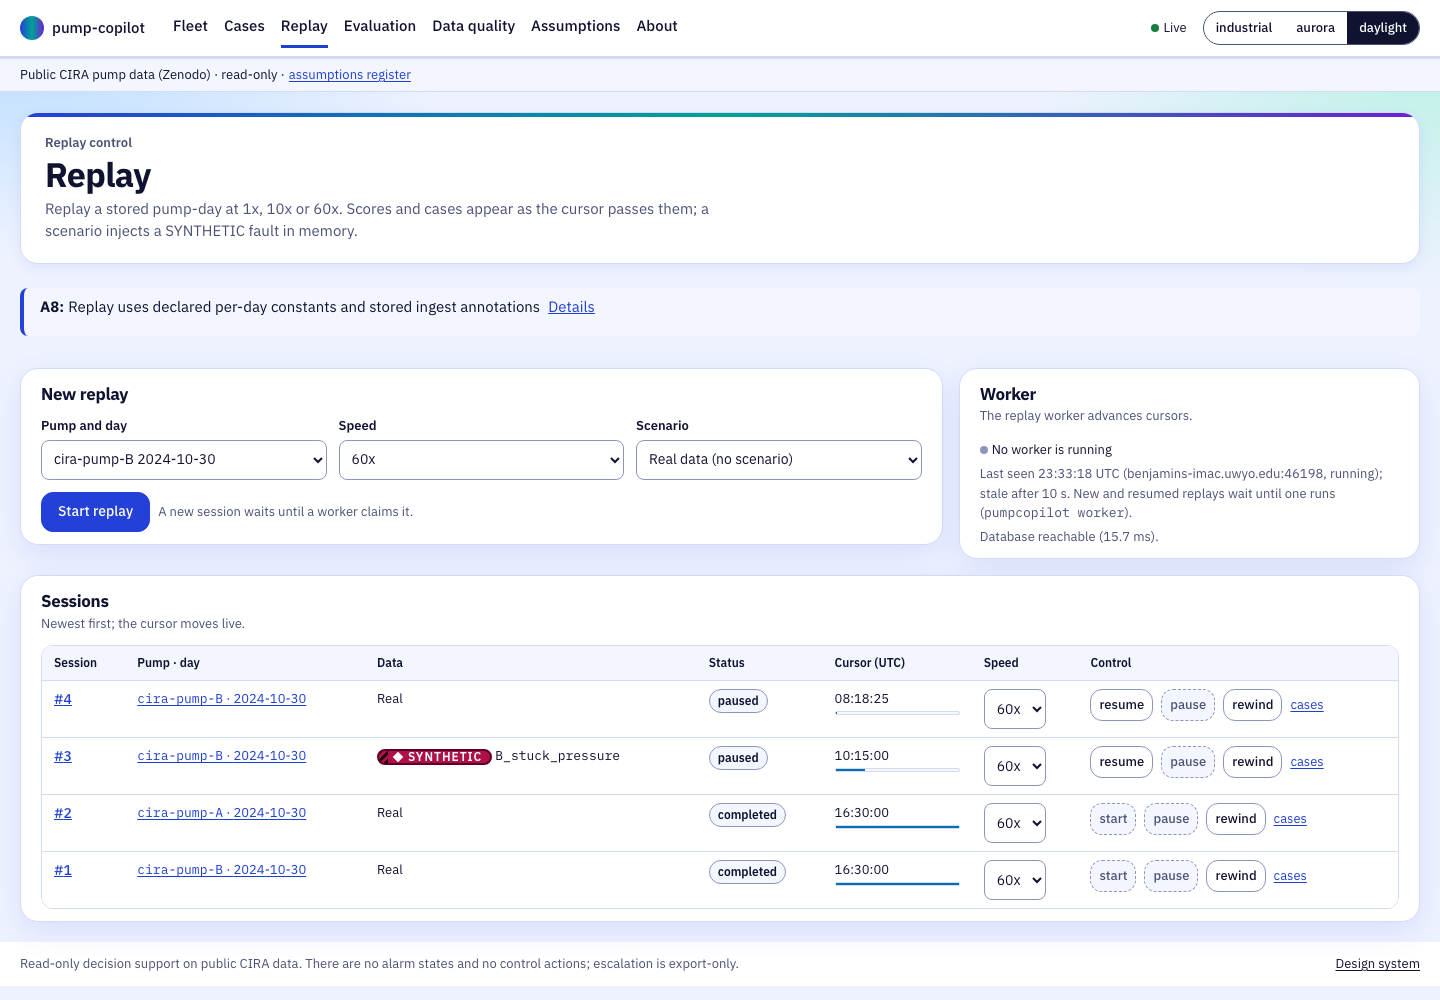
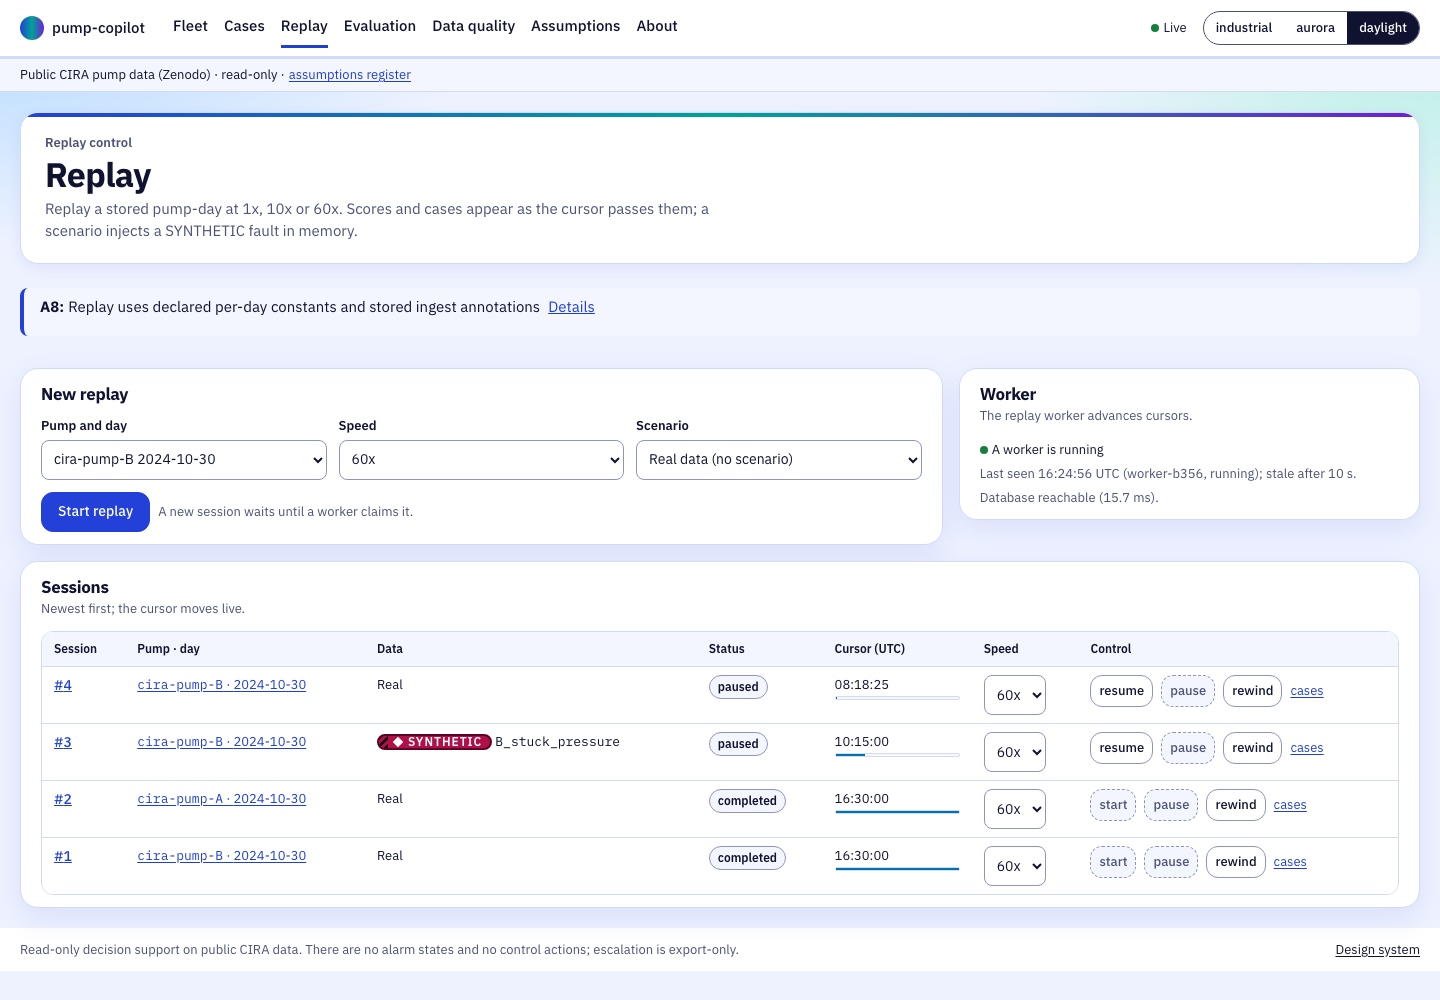
Step 7a: public readiness (licence, data credits, no host names)
- LICENSE (MIT, Benjamin Nweke) and NOTICE: the code is MIT; the CIRA and
  ZeMA datasets are credited under CC BY 4.0 with full citations, and the
  raw data is not redistributed. README: a licence and data credits
  section.
- Worker ids are a short random id (worker-3f9a) instead of host:pid;
  migration 0011 drops the heartbeat host column and the rows written
  under the old ids, so /health never shows a machine name. The stage 3
  replay screenshots are regenerated.
- The database password comes from POSTGRES_PASSWORD (docker compose,
  the default URL and the e2e backend), with pump_dev_only as the
  development default.
- docs/SCOPE.md: a summary of the original scope (goals, claim
  boundaries, datasets, phases), reconstructed from what the repository
  records; the scope references link to it.
- docs/ASSUMPTIONS.md: the dataset authors' emails replaced by the
  dataset citation.
- Checked before this commit: gitleaks over all 37 commits and tags
  found nothing; no raw dataset file is in any commit.

diff --git a/web/src/api/schema.d.ts b/web/src/api/schema.d.ts
@@ -2526,8 +2526,6 @@ export interface components {
             age_s: number;
             /** Alive */
             alive: boolean;
-            /** Host */
-            host: string;
             /**
              * Last Seen
              * Format: date-time
@@ -2549,7 +2547,10 @@ export interface components {
              * @enum {string}
              */
             status: "running" | "stopped";
-            /** Worker Id */
+            /**
+             * Worker Id
+             * @description a short random id (worker-3f9a), no host name
+             */
             worker_id: string;
         };
         /** ZemaBenchmark */

diff --git a/src/pumpcopilot/replay.py b/src/pumpcopilot/replay.py
@@ -31,7 +31,7 @@ import hashlib
 import json
 import math
 import os
-import socket
+import secrets
 import time
 from dataclasses import dataclass, field, replace
 from pathlib import Path
@@ -597,6 +597,11 @@ SCORE_COLS = ("session_id", "synthetic", "asset_id", "source_day", "signal_name"
               "cursor_at", "stored_at", "median", "band_low", "band_high")
 
 
+def new_worker_id() -> str:
+    """A short random worker id (worker-3f9a): no host name, so /health never shows it."""
+    return f"worker-{secrets.token_hex(2)}"
+
+
 class Worker:
     """`pumpcopilot worker`: claims sessions with FOR UPDATE SKIP LOCKED and advances them."""
 
@@ -604,7 +609,7 @@ class Worker:
 
     def __init__(self, conn, worker_id: str | None = None, clock=None):
         self.conn = conn
-        self.id = worker_id or f"{socket.gethostname()}:{os.getpid()}"
+        self.id = worker_id or new_worker_id()
         self.clock = clock or _now  # pacing clock (simulated in tests)
         self._cache: dict[int, _Cache] = {}
         self._started = _now()
@@ -616,12 +621,12 @@ class Worker:
         """Record that this worker is alive (real wall time, whatever the pacing clock)."""
         self._beat_at = time.monotonic()
         self.conn.execute(
-            "INSERT INTO worker_heartbeats (worker_id, host, pid, started_at, last_seen, status,"
-            " sessions_stepped, last_session_id) VALUES (%s, %s, %s, %s, clock_timestamp(),"
+            "INSERT INTO worker_heartbeats (worker_id, pid, started_at, last_seen, status,"
+            " sessions_stepped, last_session_id) VALUES (%s, %s, %s, clock_timestamp(),"
             " %s, %s, %s) ON CONFLICT (worker_id) DO UPDATE SET last_seen = clock_timestamp(),"
             " status = EXCLUDED.status, sessions_stepped = EXCLUDED.sessions_stepped,"
             " last_session_id = EXCLUDED.last_session_id",
-            [self.id, socket.gethostname(), os.getpid(), self._started, status, self._stepped,
+            [self.id, os.getpid(), self._started, status, self._stepped,
              self._last_session])
 
     def tick(self) -> dict | None:

diff --git a/src/pumpcopilot/db.py b/src/pumpcopilot/db.py
@@ -30,7 +30,7 @@ from .provenance import file_digest
 
 ROOT = Path(__file__).resolve().parents[2]
 MIGRATIONS = ROOT / "migrations"
-DEFAULT_DATABASE_URL = "postgresql://pump:pump_dev_only@localhost:5432/pumpcopilot"
+DEV_PASSWORD = "pump_dev_only"  # the local development default; set POSTGRES_PASSWORD instead
 MIGRATION_NAME = re.compile(r"(\d{4})_[a-z0-9_]+\.sql")
 DAY_MARGIN = dt.timedelta(hours=3)  # the audit's span margin around the filename day
 _LOCK = 72_616_001  # advisory lock id: one migrator at a time
@@ -40,8 +40,18 @@ class MigrationError(RuntimeError):
     pass
 
 
+def default_database_url() -> str:
+    """The local database, with the password from POSTGRES_PASSWORD (the same variable
+    docker-compose.yml gives the database), or the development default."""
+    password = "".join(  # percent-encoded for the URL (no urllib: see the network guardrail)
+        c if c.isascii() and (c.isalnum() or c in "-._~") else
+        "".join(f"%{b:02X}" for b in c.encode())
+        for c in os.environ.get("POSTGRES_PASSWORD") or DEV_PASSWORD)
+    return f"postgresql://pump:{password}@localhost:5432/pumpcopilot"
+
+
 def database_url() -> str:
-    return os.environ.get("DATABASE_URL", DEFAULT_DATABASE_URL)
+    return os.environ.get("DATABASE_URL") or default_database_url()
 
 
 def connect(url: str | None = None) -> psycopg.Connection:

diff --git a/tests/test_db.py b/tests/test_db.py
@@ -33,9 +33,19 @@ def test_every_query_function_is_scoped_to_one_asset_day():
 
 def test_database_url_comes_from_the_environment(monkeypatch):
     monkeypatch.delenv("DATABASE_URL", raising=False)
-    assert db.database_url() == db.DEFAULT_DATABASE_URL
+    monkeypatch.delenv("POSTGRES_PASSWORD", raising=False)
+    assert db.database_url() == "postgresql://pump:pump_dev_only@localhost:5432/pumpcopilot"
+    monkeypatch.setenv("POSTGRES_PASSWORD", "p@ss/word")  # quoted for the URL
+    assert db.database_url() == "postgresql://pump:p%40ss%2Fword@localhost:5432/pumpcopilot"
     monkeypatch.setenv("DATABASE_URL", "postgresql://x@example/y")
     assert db.database_url() == "postgresql://x@example/y"
+
+
+def test_no_database_password_is_written_out_except_the_development_default():
+    """The compose file and the e2e backend read POSTGRES_PASSWORD, with the same default."""
+    assert "${POSTGRES_PASSWORD:-pump_dev_only}" in (ROOT / "docker-compose.yml").read_text()
+    assert "${POSTGRES_PASSWORD:-pump_dev_only}" in (ROOT / "web/e2e/backend.sh").read_text()
+    assert db.DEV_PASSWORD == "pump_dev_only"
 
 
 # --- database ----------------------------------------------------------------------------

diff --git a/src/pumpcopilot/schema.py b/src/pumpcopilot/schema.py
@@ -7,9 +7,10 @@ Two record shapes, deliberately:
 * ``CycleRecord`` - one row per ZeMA 60 s cycle. The 100 Hz arrays live in Parquet/NPZ keyed
   by ``cycle_id``; exploding ZeMA into narrow rows would be ~96M rows for no benefit.
 
-Scope guardrails are enforced here as validation errors so they cannot be forgotten later:
-a model trained on one dataset cannot score another, abstention requires a reason, and
-anomaly scores can never become a safety alarm (there is no alarm state to choose).
+Scope guardrails (the claim boundaries in docs/SCOPE.md) are enforced here as validation
+errors so they cannot be forgotten later: a model trained on one dataset cannot score another,
+abstention requires a reason, and anomaly scores can never become a safety alarm (there is no
+alarm state to choose).
 """
 
 from __future__ import annotations

diff --git a/tests/test_api.py b/tests/test_api.py
@@ -312,6 +312,22 @@ def test_health_reports_database_and_worker(env, client):
 
 
 @pytest.mark.db
+def test_a_worker_is_known_by_a_short_random_id_and_no_host_name(env, client):
+    import re
+    import socket
+
+    with db.connect(env["url"]) as c:
+        w = replay.Worker(c)
+        w.heartbeat()
+        cols = {r[0] for r in c.execute("SELECT column_name FROM information_schema.columns"
+                                        " WHERE table_name = 'worker_heartbeats'")}
+    assert re.fullmatch(r"worker-[0-9a-f]{4}", w.id)
+    assert "host" not in cols
+    body = client.get("/api/health").text
+    assert w.id in body and socket.gethostname() not in body
+
+
+@pytest.mark.db
 def test_fleet_overview(env, client):
     body = client.get("/api/fleet").json()
     pump = {p["asset_id"]: p for p in body["pumps"]}[ASSET]

diff --git a/src/pumpcopilot/api.py b/src/pumpcopilot/api.py
@@ -354,7 +354,7 @@ def create_app(database_url: str | None = None, reports_dir: Path | None = None,
                                  if p.name not in applied)
                 out["database"] = {"ok": True, "latency_ms": round(
                     (time.perf_counter() - t0) * 1000, 2), "pending_migrations": pending}
-                workers = _rows(c, "SELECT worker_id, host, pid, status, started_at, last_seen,"
+                workers = _rows(c, "SELECT worker_id, pid, status, started_at, last_seen,"
                                    " sessions_stepped, last_session_id, extract(epoch FROM"
                                    " clock_timestamp() - last_seen) AS age_s FROM"
                                    " worker_heartbeats ORDER BY last_seen DESC")

diff --git a/src/pumpcopilot/acquire.py b/src/pumpcopilot/acquire.py
@@ -2,7 +2,7 @@
 
 Nothing here redistributes data. The lock file records URL, size, digest and retrieval time so
 every later report can name the exact bytes it was computed from. If a pinned hash in
-manifest.yaml does not match, acquisition stops (scope Week 1 stop rule).
+manifest.yaml does not match, acquisition stops (scope Week 1 stop rule, docs/SCOPE.md).
 """
 
 from __future__ import annotations

diff --git a/src/pumpcopilot/api_models.py b/src/pumpcopilot/api_models.py
@@ -44,8 +44,7 @@ class DatabaseHealth(Model):
 
 
 class WorkerHeartbeat(Model):
-    worker_id: str
-    host: str
+    worker_id: str = Field(description="a short random id (worker-3f9a), no host name")
     pid: int
     status: Literal["running", "stopped"]
     started_at: dt.datetime

diff --git a/README.md b/README.md
@@ -15,7 +15,7 @@ pumpcopilot audit zema          # -> reports/zema_audit.json
 pumpcopilot audit cira          # -> reports/cira_audit.json
 pumpcopilot rules cira          # -> data/operating_rules.yaml, reports/cira_operating_rules.md
 pumpcopilot state cira          # -> reports/cira_state.json (state time, changes, stale/spike)
-docker compose up -d db         # Timescale; DATABASE_URL overrides the local default
+docker compose up -d db         # Timescale; password from POSTGRES_PASSWORD (default pump_dev_only)
 pumpcopilot db migrate          # applies migrations/NNNN_*.sql in order
 pumpcopilot db load cira        # idempotent: a second run inserts 0 rows
 pumpcopilot db perf             # -> reports/db_perf.json
@@ -43,11 +43,16 @@ make test-web                   # Vitest (stream hook) and the TypeScript check
 make e2e                        # Playwright end to end, on its own database (pumpcopilot_e2e)
 ```
 
-## Step 1 exit criteria (scope Week 1 stop rule)
+The database password comes from `POSTGRES_PASSWORD` (export it in the shell, so the database,
+the worker and the API all see it; it applies when the database volume is first created), or
+`DATABASE_URL` replaces the whole connection string. Without either, the local development
+default `pump_dev_only` is used.
+
+## Step 1 exit criteria ([scope](docs/SCOPE.md) Week 1 stop rule)
 - ZeMA: every channel is 2,205 x (Hz x 60); five label columns within documented values.
 - ZeMA: `split_preflight` shows whether an ordered split with gaps keeps all leakage classes.
 - CIRA: 8 files, only C / 2024-10-30 absent; cadence, gaps, duplicates and placeholders measured.
-- CIRA: record version and license printed by `acquire` match the scope, or are escalated.
+- CIRA: record version and license printed by `acquire` match the [scope](docs/SCOPE.md), or are escalated.
 - `data/cira_columns.yaml` written from the audit headers and the data descriptor.
 
 ## Layout
@@ -62,8 +67,25 @@ src/pumpcopilot/db.py          migration runner, COPY + ON CONFLICT loader, per-
 src/pumpcopilot/scoring.py     features, robust baseline, ScoredEvidence, injection, protocol
 migrations/                    numbered SQL: telemetry/readings hypertables, segments, runs, 1-min view
 docs/adr/                      decisions that adjust the original scope
+docs/SCOPE.md                  summary of the original project scope
 docs/ASSUMPTIONS.md            assumptions register: evidence, impact if wrong, how to revisit
 ```
+
+## Licence and data credits
+The code is licensed under the [MIT License](LICENSE). It does not cover the datasets.
+
+This project uses two public datasets, both under
+[CC BY 4.0](https://creativecommons.org/licenses/by/4.0/). Full citations are in
+[NOTICE](NOTICE) and `data/manifest.yaml`.
+- **CIRA Centrifugal Pump Dataset**: Martone and Zazzaro, Zenodo,
+  [doi:10.5281/zenodo.18479728](https://doi.org/10.5281/zenodo.18479728). The data descriptor is
+  Martone et al. (2025), Data 10(6), 91.
+- **ZeMA condition monitoring of hydraulic systems**: Helwig, Pignanelli and Schütze, UCI Machine
+  Learning Repository, [doi:10.24432/C5CW21](https://doi.org/10.24432/C5CW21).
+
+The raw data is not redistributed. It is not in this repository, and `pumpcopilot acquire`
+downloads it from the original sources. The raw data is unchanged; the features, scores, reports
+and figures here are derived from it.
 
 ## Data
 Raw data is never committed. See `data/manifest.yaml` for sources, citations and license status.

diff --git a/docs/SCOPE.md b/docs/SCOPE.md
@@ -1,0 +1,56 @@
+# Project scope (summary)
+
+A concise summary of the original project scope. The original scope document is not in this
+repository; this summary is reconstructed from what the repository records of it (the README,
+[ADR-0001](adr/0001-scope-adjustments.md), the guardrails in `src/pumpcopilot/schema.py`, the
+manifest and the step history). Where ADR-0001 changed how the scope is delivered, the
+adjustment is noted; the claim boundaries are unchanged.
+
+## Goal
+A read-only decision-support prototype for a refinery-style pump service, built as a portfolio
+demonstration on public data: replay real pump telemetry, score it against a baseline, open
+review cases with their evidence, help an engineer review a case with a checked assistant, and
+evaluate every part honestly, including the results that did not go well.
+
+## Claim boundaries
+- **Read-only.** No control actions and no plant alarms; there is no alarm state in the data
+  contract, and escalation is an export.
+- **Public data only.** No refinery or plant data.
+- **One model, one dataset.** A model fit on one dataset never scores another; ZeMA results do
+  not transfer to the CIRA pumps.
+- **The bench label stays.** ZeMA outputs are "hydraulic test rig pump leakage state" only.
+- **No fault claims on CIRA.** CIRA has no fault labels, so a case means "look here", and a
+  review on real data is unlabelled, not false. Synthetic fault injections are labelled
+  SYNTHETIC and measure the pipeline, not real fault detection.
+- **Observations, not diagnoses.** Evidence states what was measured. Abstaining needs a reason,
+  and suggesting a review needs evidence.
+- **Calibration is measured, not claimed.**
+
+## Datasets
+- **CIRA Centrifugal Pump Dataset** (Zenodo record 18479728, version 2, CC BY 4.0): the primary
+  source, real centrifugal-pump telemetry under normal operation, replayed per pump-day.
+- **ZeMA condition monitoring of hydraulic systems** (UCI 447, CC BY 4.0): a separate benchmark
+  page for the test rig's pump leakage state.
+- **4TU / Tata Steel centrifugal pump faults**: a candidate labelled benchmark for a later
+  phase, not in scope yet (ADR-0001 §5).
+
+Raw data is downloaded from the original sources and never committed or redistributed
+([NOTICE](../NOTICE)).
+
+## Phases
+- **Week 1: data contract, acquisition and audit**, with a stop rule: acquisition stops if a
+  source's version, licence or hashes do not match `data/manifest.yaml`.
+- **Operating state and loading:** CIRA running state and data-quality flags, loaded into
+  TimescaleDB.
+- **Scoring and evaluation:** a CIRA baseline and detector, pre-registered and evaluated once;
+  the ZeMA benchmark, pre-registered, with the random-against-chronological split gap as the
+  headline (ADR-0001 §3).
+- **Replay and API:** a replay worker with persisted scores and cases, and a read-only API with a
+  live stream.
+- **Frontend:** the fleet, asset-day, case, replay, evaluation and data-quality views.
+- **Assistant:** a copilot whose every answer is checked before it is shown, evaluated on
+  questions written blind.
+- **Public readiness:** licences, credits and a review of what the repository makes public.
+
+The budget is about 80 hours in total, which is why ADR-0001 chose a modular monolith over
+separate services.

diff --git a/docs/ASSUMPTIONS.md b/docs/ASSUMPTIONS.md
@@ -8,7 +8,8 @@ Sources cited below:
 - **Descriptor**: Martone et al., "Sensor-Based Monitoring Data from an Industrial System of
   Centrifugal Pumps", *Data* 2025, 10(6), 91, DOI 10.3390/data10060091.
 - **Audit**: `reports/cira_audit.json`, produced by `pumpcopilot audit cira`.
-- Dataset authors: a.martone@cira.it, g.zazzaro@cira.it (from the Zenodo README).
+- **Dataset**: Martone, A. and Zazzaro, G. (2026). Centrifugal Pump Dataset (version 2)
+  [dataset]. Zenodo. DOI 10.5281/zenodo.18479728.
 
 ---
 
